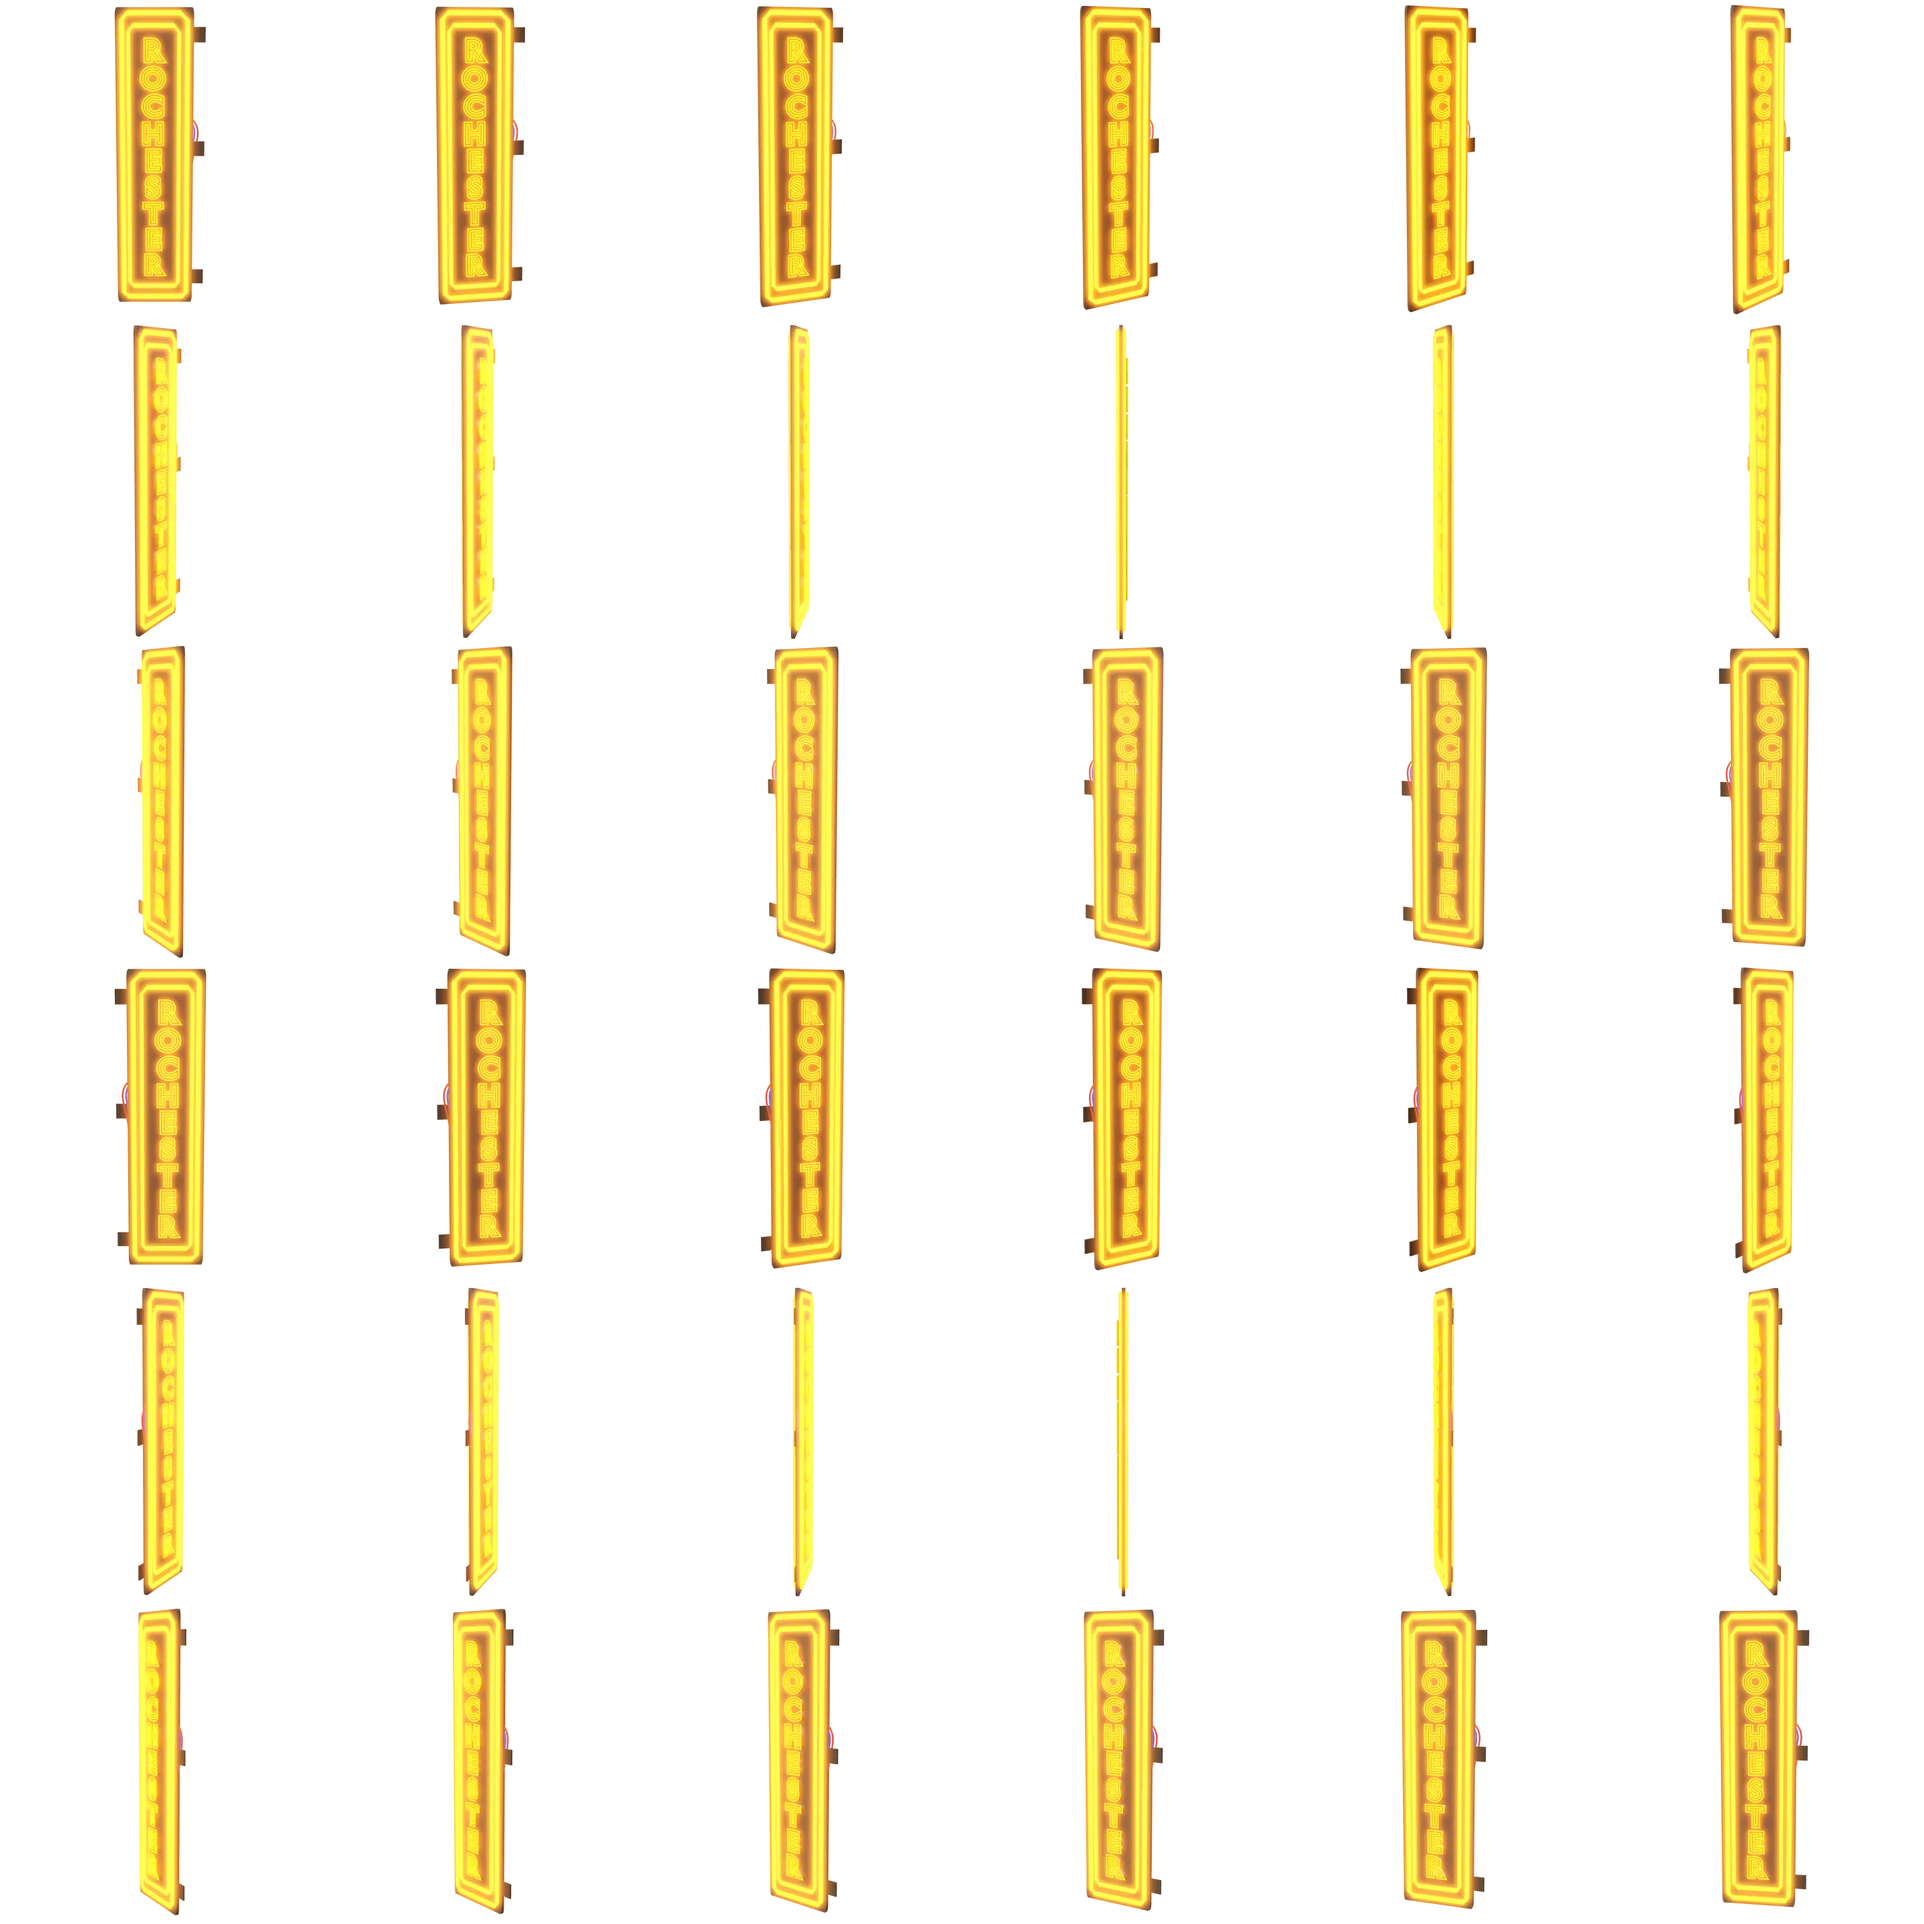
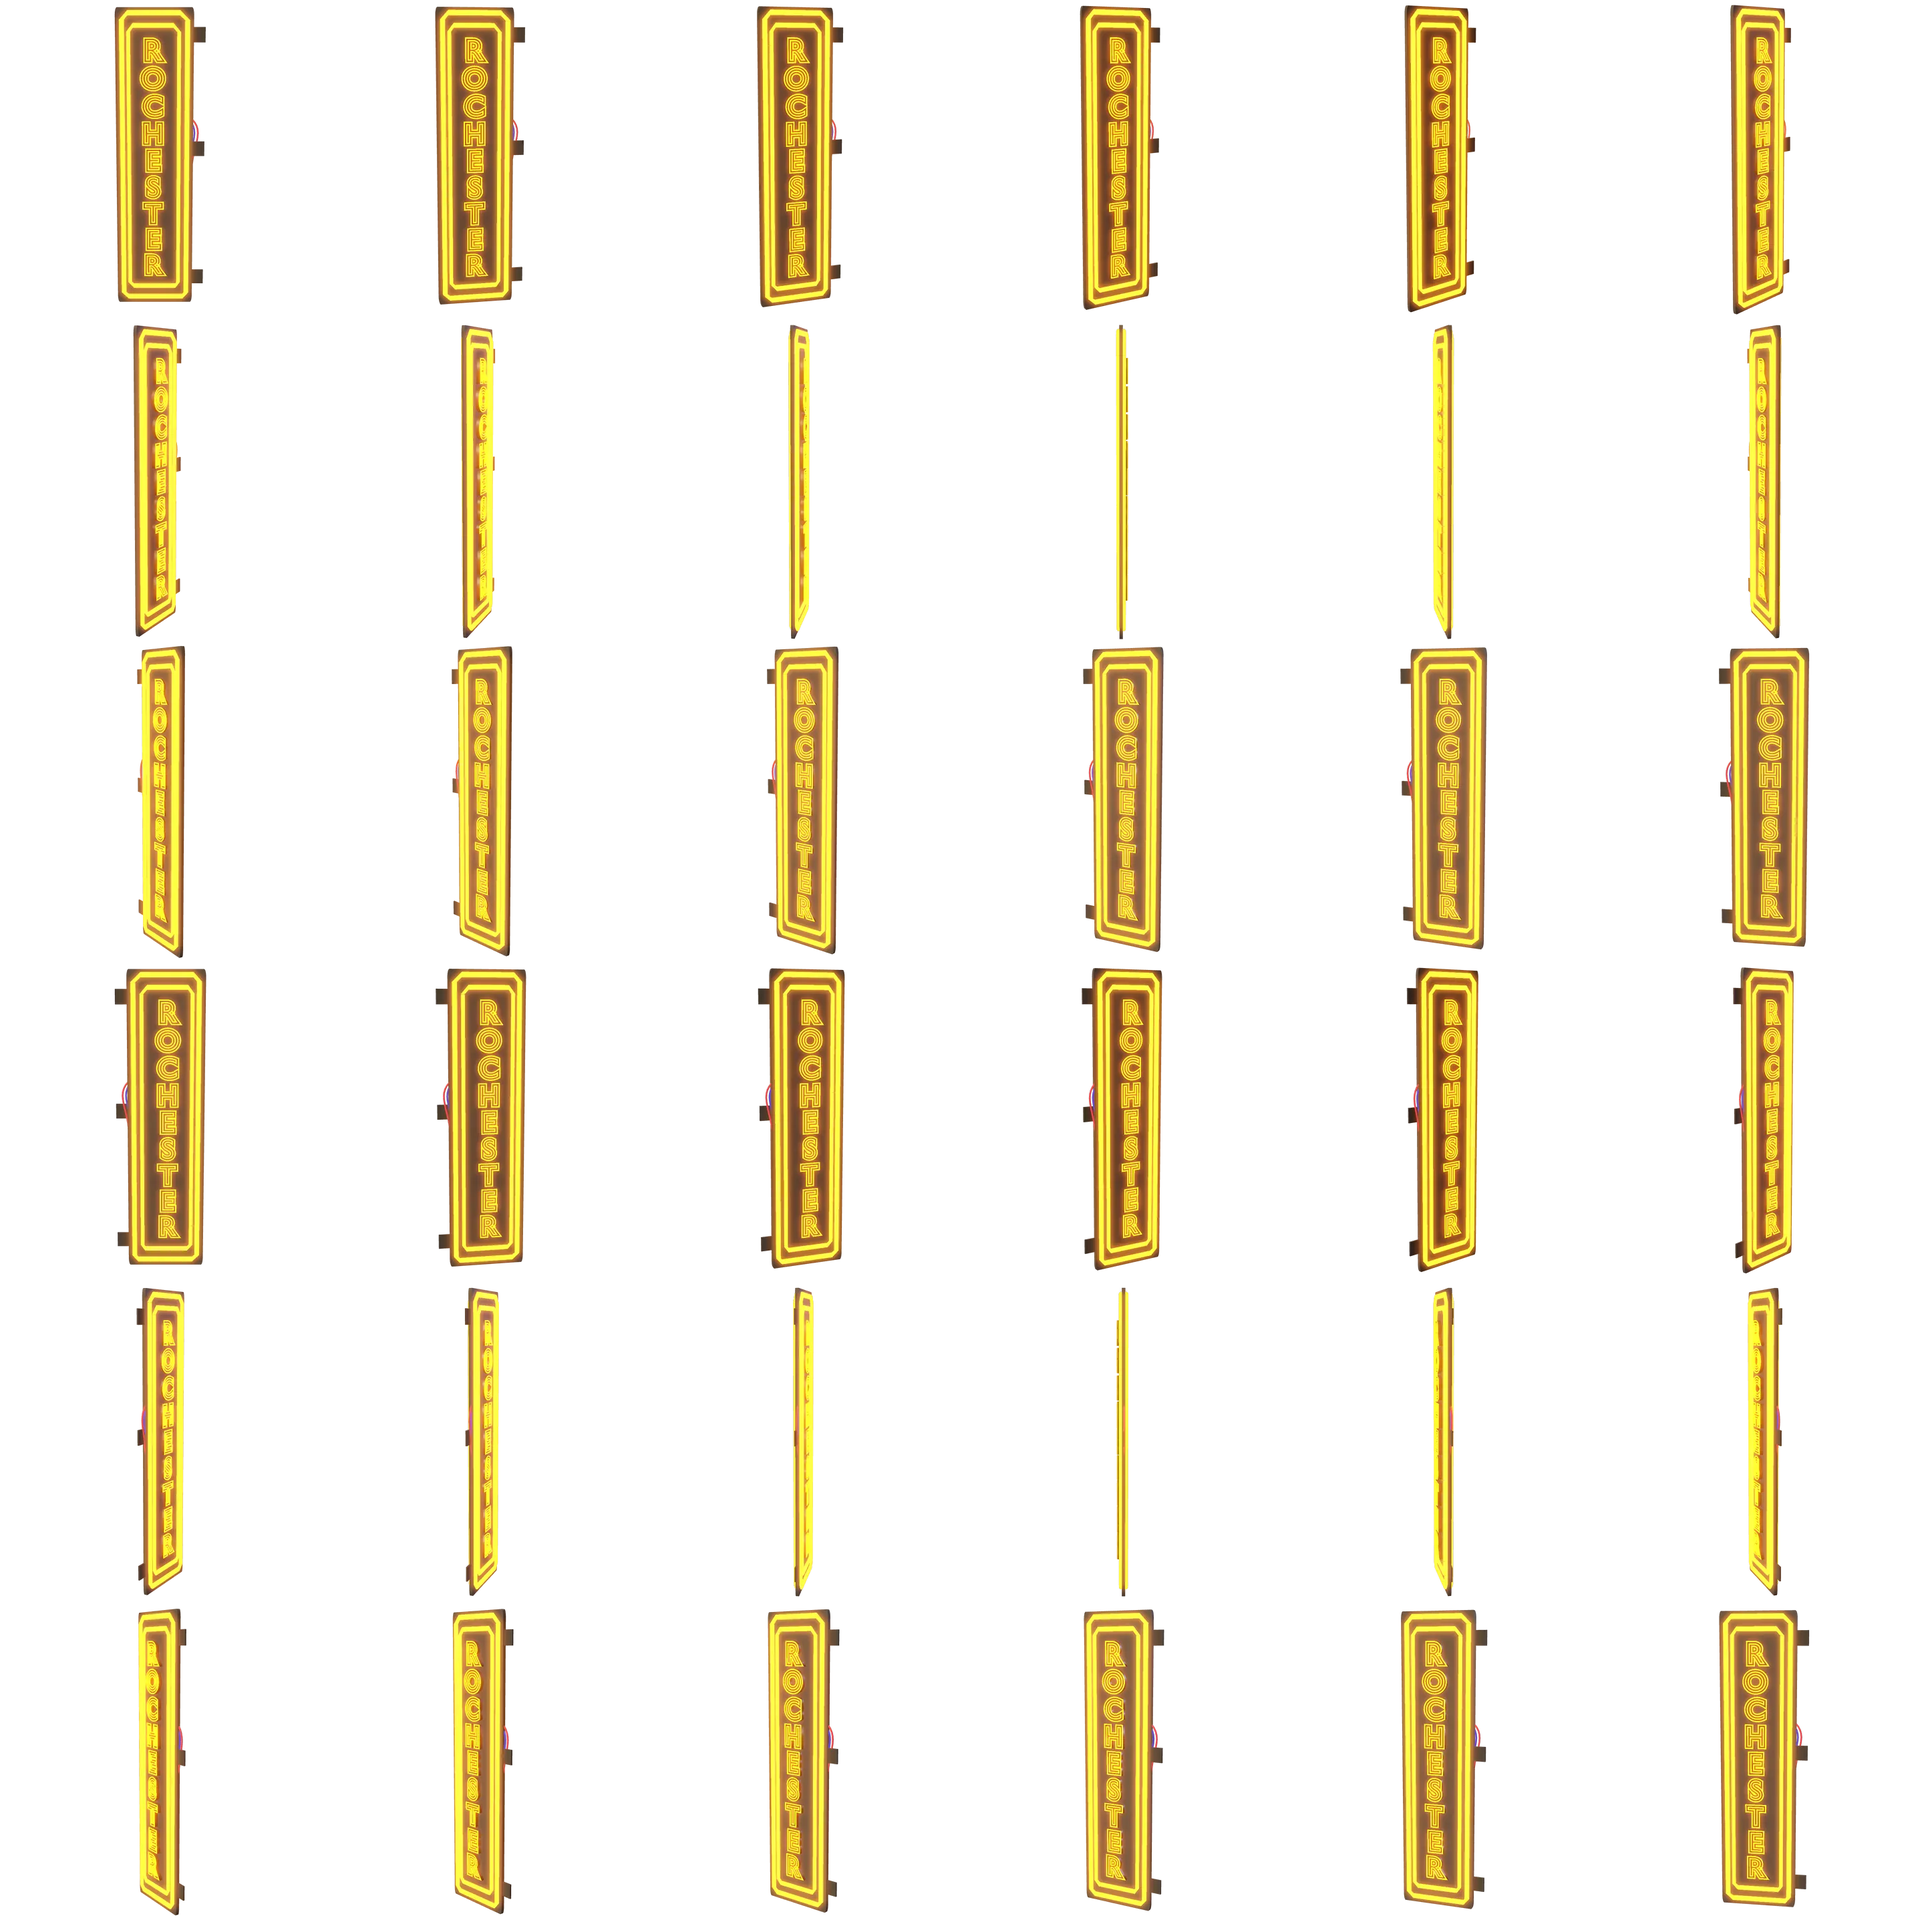
Models: softer glow on turntables, slower spin

diff --git a/models/spin.js b/models/spin.js
@@ -23,6 +23,6 @@
       if (e.key === "ArrowLeft") { touched = true; show(frame - 1); e.preventDefault(); }
       if (e.key === "ArrowRight") { touched = true; show(frame + 1); e.preventDefault(); }
     });
-    if (!still) setInterval(function () { if (!touched && !held) show(frame + 1); }, 140);
+    if (!still) setInterval(function () { if (!touched && !held) show(frame + 1); }, 320);
   });
 })();
